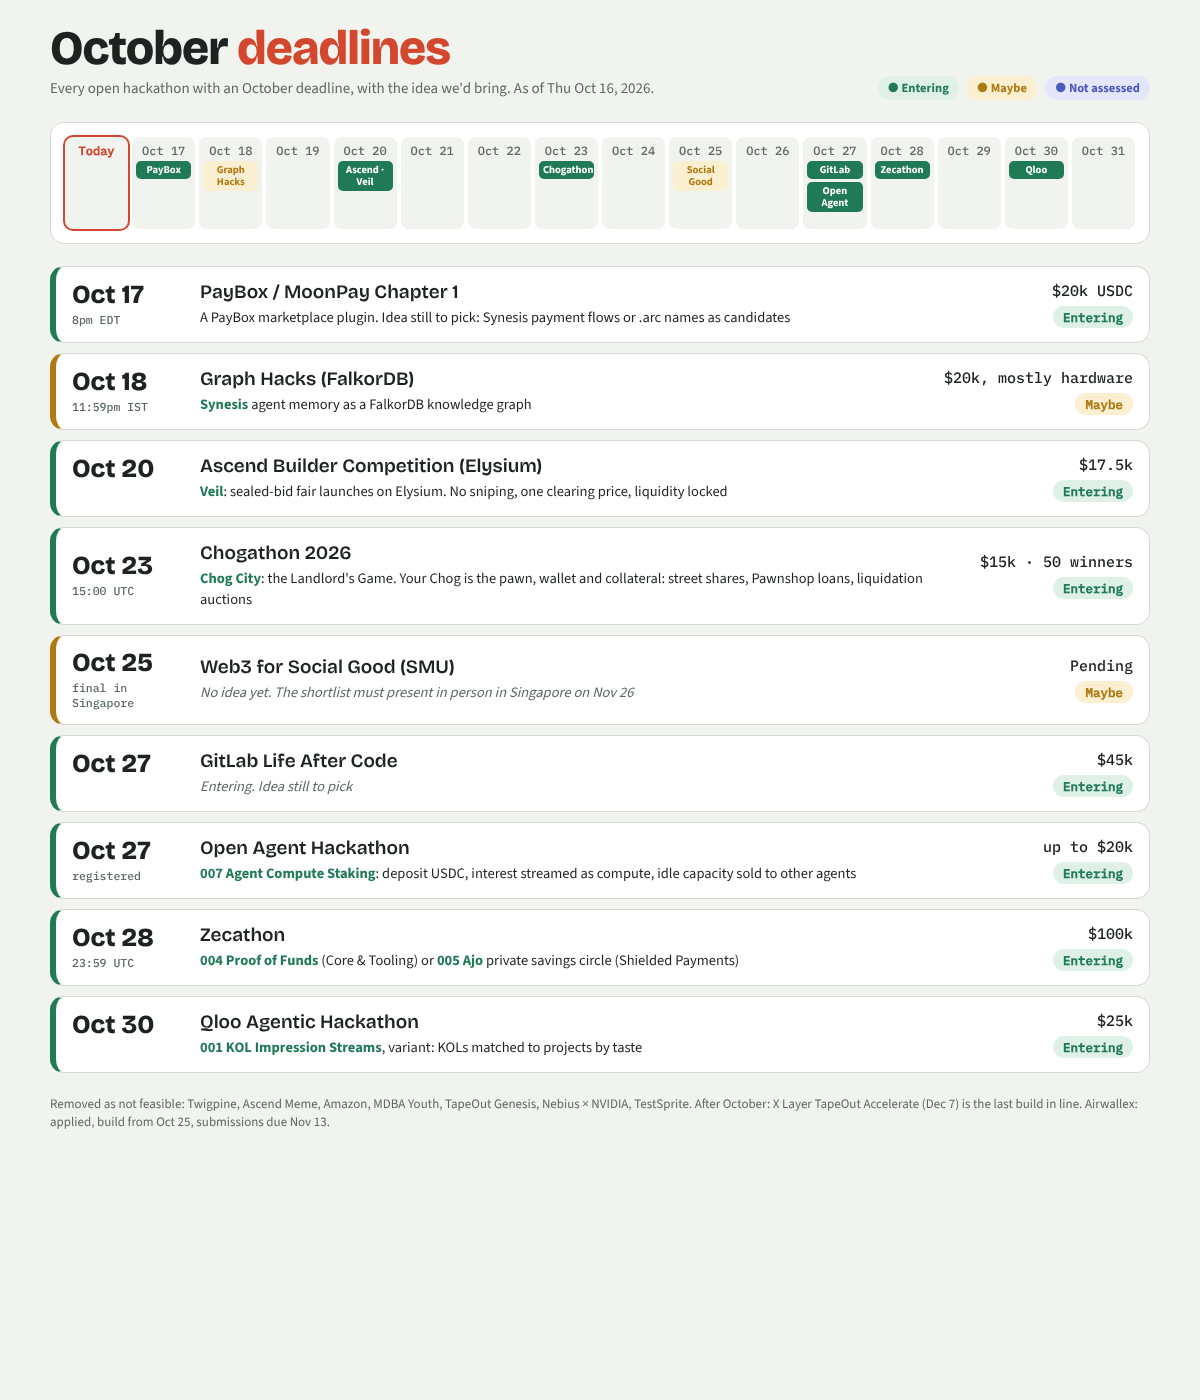
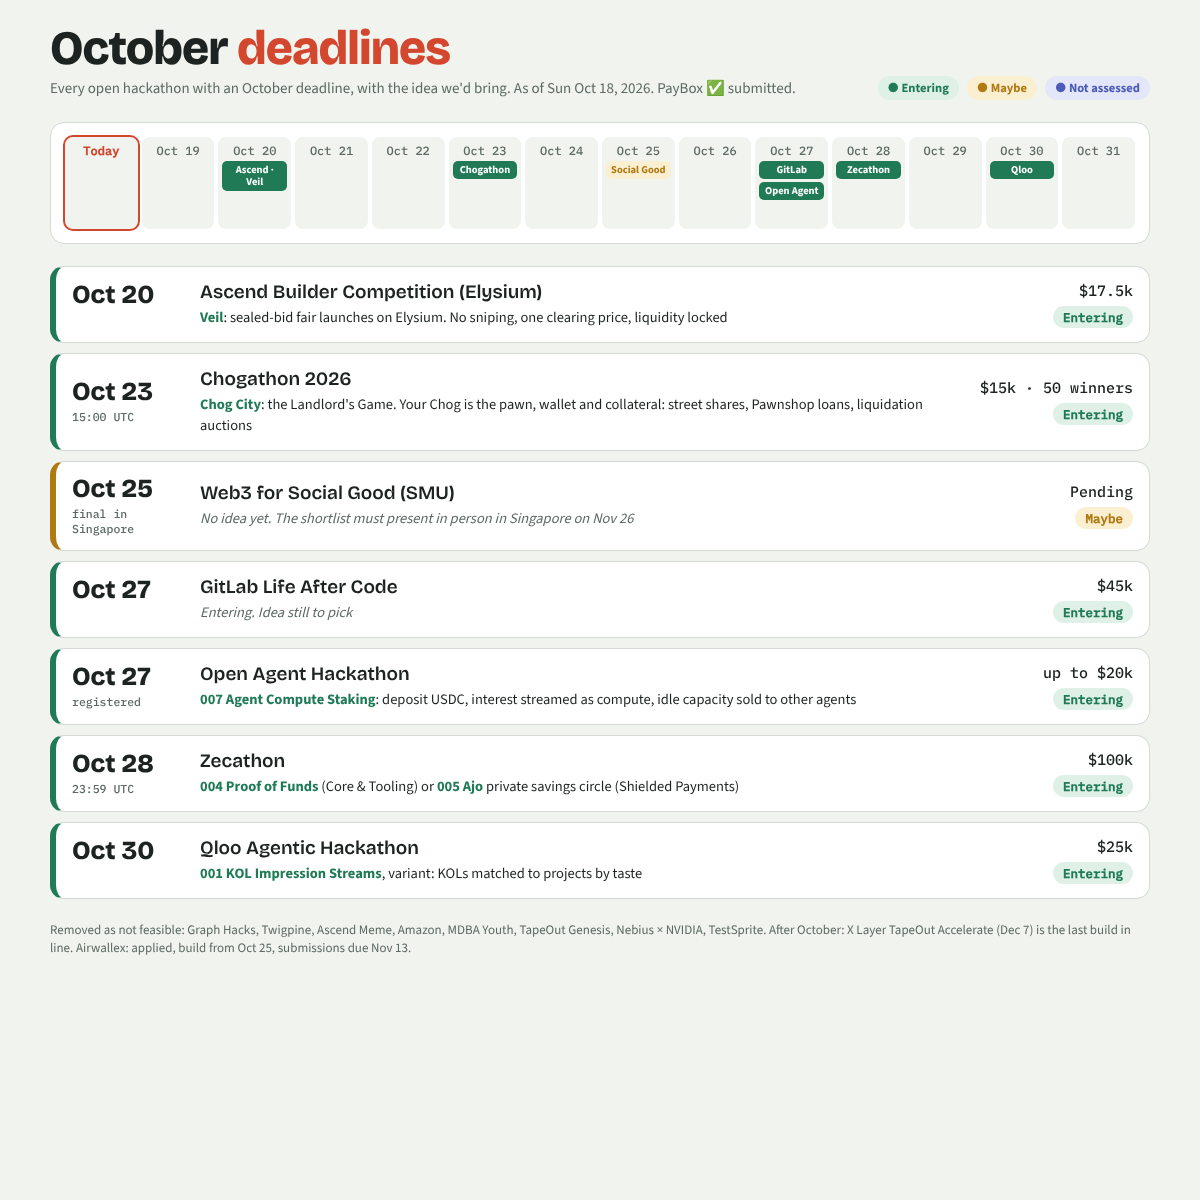
Rankings: PayBox submitted, Graph Hacks skipped; board as of Oct 18
Claude-Session: https://claude.ai/code/session_01F77xPm6nQrBC9knCdVtozW

diff --git a/hackathons/october-board.html b/hackathons/october-board.html
@@ -4,7 +4,7 @@
 <link rel="preconnect" href="https://fonts.gstatic.com" crossorigin>
 <link rel="stylesheet" href="https://fonts.googleapis.com/css2?family=Bricolage+Grotesque:opsz,wght@12..96,600;12..96,800&family=Source+Sans+3:wght@400;600;700&family=IBM+Plex+Mono:wght@500&display=swap">
 <style>
-/* Layout: a wall planner. A day strip for Oct 16–31 on top, then one card per deadline in date order. */
+/* Layout: a wall planner. A day strip for Oct 18–31 on top, then one card per deadline in date order. */
 :root {
   --bg: #f1f3ee; --card: #ffffff; --ink: #1d2320; --muted: #5d6a63; --line: #d5dbd4;
   --go: #1f7a55; --go-soft: #dff1e7; --maybe: #b07a12; --maybe-soft: #fbefd2; --new: #4d5bb8; --new-soft: #e4e7fa;
@@ -32,7 +32,7 @@ h1 span { color: var(--today); }
 .chip.go { background: var(--go-soft); color: var(--go); } .chip.maybe { background: var(--maybe-soft); color: var(--maybe); } .chip.new { background: var(--new-soft); color: var(--new); }
 
 .strip { background: var(--card); border: 1px solid var(--line); border-radius: 14px; padding: 14px; overflow-x: auto; }
-.days { display: grid; grid-template-columns: repeat(16, minmax(46px, 1fr)); gap: 4px; min-width: 760px; }
+.days { display: grid; grid-template-columns: repeat(14, minmax(46px, 1fr)); gap: 4px; min-width: 660px; }
 .day { border-radius: 8px; padding: 6px 4px; min-height: 92px; display: flex; flex-direction: column; gap: 3px; background: var(--bg); }
 .day .d { font: 500 12px var(--mono); color: var(--muted); text-align: center; }
 .day.today { outline: 2px solid var(--today); }
@@ -62,24 +62,22 @@ footer { color: var(--muted); font-size: 13px; }
   <header>
     <div>
       <h1>October <span>deadlines</span></h1>
-      <p class="sub">Every open hackathon with an October deadline, with the idea we'd bring. As of Thu Oct 16, 2026.</p>
+      <p class="sub">Every open hackathon with an October deadline, with the idea we'd bring. As of Sun Oct 18, 2026. PayBox ✅ submitted.</p>
     </div>
     <div class="legend"><span class="chip go">● Entering</span><span class="chip maybe">● Maybe</span><span class="chip new">● Not assessed</span></div>
   </header>
 
-  <div class="strip" aria-label="Day strip, Oct 16 to 31">
+  <div class="strip" aria-label="Day strip, Oct 18 to 31">
     <div class="days" id="days"></div>
   </div>
 
   <div class="cards" id="cards"></div>
 
-  <footer>Removed as not feasible: Twigpine, Ascend Meme, Amazon, MDBA Youth, TapeOut Genesis, Nebius × NVIDIA, TestSprite. After October: X Layer TapeOut Accelerate (Dec 7) is the last build in line. Airwallex: applied, build from Oct 25, submissions due Nov 13.</footer>
+  <footer>Removed as not feasible: Graph Hacks, Twigpine, Ascend Meme, Amazon, MDBA Youth, TapeOut Genesis, Nebius × NVIDIA, TestSprite. After October: X Layer TapeOut Accelerate (Dec 7) is the last build in line. Airwallex: applied, build from Oct 25, submissions due Nov 13.</footer>
 </div>
 
 <script>
 const ITEMS = [
-  { d: 17, when: "Oct 17", time: "8pm EDT", name: "PayBox / MoonPay Chapter 1", short: "PayBox", prize: "$20k USDC", s: "go", idea: "A PayBox marketplace plugin. Idea still to pick: Synesis payment flows or .arc names as candidates", tbd: true },
-  { d: 18, when: "Oct 18", time: "11:59pm IST", name: "Graph Hacks (FalkorDB)", short: "Graph Hacks", prize: "$20k, mostly hardware", s: "maybe", idea: "<b>Synesis</b> agent memory as a FalkorDB knowledge graph" },
   { d: 20, when: "Oct 20", time: "", name: "Ascend Builder Competition (Elysium)", short: "Ascend · Veil", prize: "$17.5k", s: "go", idea: "<b>Veil</b>: sealed-bid fair launches on Elysium. No sniping, one clearing price, liquidity locked" },
   { d: 23, when: "Oct 23", time: "15:00 UTC", name: "Chogathon 2026", short: "Chogathon", prize: "$15k · 50 winners", s: "go", idea: "<b>Chog City</b>: the Landlord's Game. Your Chog is the pawn, wallet and collateral: street shares, Pawnshop loans, liquidation auctions" },
   { d: 25, when: "Oct 25", time: "final in Singapore", name: "Web3 for Social Good (SMU)", short: "Social Good", prize: "Pending", s: "maybe", idea: "No idea yet. The shortlist must present in person in Singapore on Nov 26", none: true },
@@ -90,9 +88,9 @@ const ITEMS = [
 ];
 const days = document.getElementById("days");
 let html = "";
-for (let d = 16; d <= 31; d++) {
+for (let d = 18; d <= 31; d++) {
   const pins = ITEMS.filter(i => i.d === d).map(i => `<div class="pin ${i.s}">${i.short}</div>`).join("");
-  html += `<div class="day${d === 16 ? " today" : ""}"><div class="d">${d === 16 ? "Today" : "Oct " + d}</div>${pins}</div>`;
+  html += `<div class="day${d === 18 ? " today" : ""}"><div class="d">${d === 18 ? "Today" : "Oct " + d}</div>${pins}</div>`;
 }
 days.innerHTML = html;
 const label = { go: "Entering", maybe: "Maybe", new: "Not assessed" };

diff --git a/hackathons/OPEN-BY-DEADLINE.md b/hackathons/OPEN-BY-DEADLINE.md
@@ -1,6 +1,6 @@
 # Open Hackathons, Ranked by Deadline
 
-**As of 2026-10-16** (first compiled Oct 15). This merges two lists:
+**As of 2026-10-18** (first compiled Oct 15). This merges two lists:
 - **Repo:** [`TIMELINE.md`](TIMELINE.md), researched Oct 4.
 - **Roundup:** @Chinnybest0's Oct 15 roundup of 15 hackathons. Its prizes and dates were extracted by another AI assistant.
 
@@ -13,26 +13,24 @@
 
 | # | Deadline | Hackathon | Prize | Status | Source | Link |
 |---|---|---|---|---|---|---|
-| 1 | Oct 17, 8pm EDT (runs Oct 16 8am to Oct 17 8pm) | PayBox / MoonPay Hackathons Chapter 1 | $20k USDC (1st $5k) | 🎯 **entering** (36-hour sprint) | ✔ checked | https://developer.paybox.sh · https://x.com/PayBox/status/2110461635836170547 |
-| 2 | Oct 18, 11:59pm IST | Graph Hacks (FalkorDB, WeMakeDevs) | $20k, mostly hardware | 🟡 | repo + roundup | https://www.wemakedevs.org/hackathons/falkordb · https://x.com/WeMakeDevs/status/2110324168336281712 |
-| 3 | Oct 20 | Ascend Builder Competition (Elysium) | $17.5k (10k / 5k / 2.5k) | 🎯 Veil ([008](../ideas/008-veil-elysium.md)) | roundup | https://x.com/AscendLaunch/status/2106189953210454331 (submit in Discord) |
-| 4 | **Oct 23, 15:00 UTC** | **Chogathon 2026** | $15k, 50 winners | **🎯 registered** | ✔ checked | https://chogathon.chog.xyz/ |
-| 5 | Oct 25 (submissions) · shortlist presents in person in Singapore on Nov 26 | Web3 for Social Good (SMU) | Prize "Pending" | 🟡 back in | repo (verified Oct 4) | https://dorahacks.io/hackathon/web3-social-good-2026/detail |
-| 6 | Oct 27 | GitLab Life After Code | $45k | 🎯 **entering** (idea to pick) | roundup (page returned 403) | https://gitlab-transcend.devpost.com · https://x.com/gitlab/status/2107897027791114291 |
-| 7 | **Oct 27** (registration open until Oct 22) | **Open Agent Hackathon** | up to $20k | 🎯 registered (007 Agent Compute Staking) | user-confirmed Oct 16 | https://hackathon.genai.works/ |
-| 8 | **Oct 28, 23:59 UTC** | **Zecathon** | $100k | 🎯 | ✔ checked | https://thezecathon.com/ |
-| 9 | Oct 30 | Qloo Agentic Hackathon | $25k | 🎯 001 variant (taste-matched KOLs) | repo | https://qloo.devpost.com/ |
-| 10 | **~Nov 1** | **BLI Legal Tech Hackathon 2** | $20k headline | 🎯 | repo | https://dorahacks.io/hackathon/legal-hack-2026/detail |
-| 11 | **Nov 2, 11:45am ET** | YouCam API Skin AI & eCommerce VTO Hackathon (Perfect Corp, Devpost) | $6k ($2.5k / $1k / $500, plus $1k Women in Tech and $1k Rising Star) | 🆕 🟡 | ✔ checked | https://youcam-api-skin-ai-ecommerce.devpost.com/ · [press release](https://www.businesswire.com/news/home/20261013363370/en/Perfect-Corp.s-YouCam-API-Hackathon-Is-Back-Now-Focused-on-eCommerce-with-a-%246000-Prize-Pool) |
-| 12 | Nov 9, 09:00 GMT | Celo Agents on Open Rails | $5k across 4 tracks | 🆕 | ✔ checked | https://loops.house/agents-on-open-rails · https://x.com/CeloDevs/status/2108161299838550486 |
-| 13 | Nov 11 | Nimiq Mini Apps Competition, Cycle 3 | $17k USDC | 🆕 | roundup | https://x.com/miniappscomp/status/2110403290328449276 · https://x.com/nimiq/status/2110400145028170212 |
-| 14 | Nov 11 | Ryo-chan Virtual Hackathon | $15k in tokens | 🟡 | repo | https://ryobuild.com/ |
-| 15 | **Nov 12, 3:00pm EST** | **PayPal + AI: "Build What's Next"** (Devpost) | $60k+ per PayPal, $67.5k on Devpost | 🟡 back in, confirmed real | ✔ checked | https://developer.paypal.com/community/blog/PayPal_AI_Hackathon |
-| 16 | **Nov 13 (submissions)** · build from Oct 25 · applications closed Oct 23 | **Airwallex Agentic Banking** | $100k headline (prizes and credits listed add up to $156k) | ✅ **applied** (Oct 16): build Synesis from Oct 25 | ✔ checked | https://airwallex.hackerearth.com · https://x.com/airwallex/status/2107148620617420932 |
-| 17 | Nov 14 (registration closes Nov 5) | Lexsi AI Safety & Alignment | $30k+ in prizes and credits | 🆕 | ✔ checked | https://hackathon.lexsi.ai · https://x.com/Lexsi_labs/status/2109553969202921975 |
-| 18 | Nov 30 (repo) or Dec 10 (roundup) | QIE Hackathon 3.0 | $17k | 🟡 | repo + roundup, dates conflict | https://hackathon.qie.digital · https://x.com/qieblockchain/status/2098645510848410088 |
-| 19 | **Dec 7, 23:59 UTC** (provisional) | X Layer TapeOut Accelerate (OKX / X Layer × TapeOut) | 100k USDT (1 × 20k, 5 × 10k, 5 × 6k), paid in milestone stages | 🎯 **entering, last in line**: only after the October builds ship | ✔ checked | https://web3.okx.com/xlayer/build-x-series · [OKX Wallet post](https://x.com/OKXWallet_CN/status/2110923153388273991) |
-| 20 | Rolling | Circle Grants | up to $100k USDC | 🎯 | repo | https://www.circle.com/grant |
+| 1 | Oct 20 | Ascend Builder Competition (Elysium) | $17.5k (10k / 5k / 2.5k) | 🎯 Veil ([008](../ideas/008-veil-elysium.md)) | roundup | https://x.com/AscendLaunch/status/2106189953210454331 (submit in Discord) |
+| 2 | **Oct 23, 15:00 UTC** | **Chogathon 2026** | $15k, 50 winners | **🎯 registered** | ✔ checked | https://chogathon.chog.xyz/ |
+| 3 | Oct 25 (submissions) · shortlist presents in person in Singapore on Nov 26 | Web3 for Social Good (SMU) | Prize "Pending" | 🟡 back in | repo (verified Oct 4) | https://dorahacks.io/hackathon/web3-social-good-2026/detail |
+| 4 | Oct 27 | GitLab Life After Code | $45k | 🎯 **entering** (idea to pick) | roundup (page returned 403) | https://gitlab-transcend.devpost.com · https://x.com/gitlab/status/2107897027791114291 |
+| 5 | **Oct 27** (registration open until Oct 22) | **Open Agent Hackathon** | up to $20k | 🎯 registered (007 Agent Compute Staking) | user-confirmed Oct 16 | https://hackathon.genai.works/ |
+| 6 | **Oct 28, 23:59 UTC** | **Zecathon** | $100k | 🎯 | ✔ checked | https://thezecathon.com/ |
+| 7 | Oct 30 | Qloo Agentic Hackathon | $25k | 🎯 001 variant (taste-matched KOLs) | repo | https://qloo.devpost.com/ |
+| 8 | **~Nov 1** | **BLI Legal Tech Hackathon 2** | $20k headline | 🎯 | repo | https://dorahacks.io/hackathon/legal-hack-2026/detail |
+| 9 | **Nov 2, 11:45am ET** | YouCam API Skin AI & eCommerce VTO Hackathon (Perfect Corp, Devpost) | $6k ($2.5k / $1k / $500, plus $1k Women in Tech and $1k Rising Star) | 🆕 🟡 | ✔ checked | https://youcam-api-skin-ai-ecommerce.devpost.com/ · [press release](https://www.businesswire.com/news/home/20261013363370/en/Perfect-Corp.s-YouCam-API-Hackathon-Is-Back-Now-Focused-on-eCommerce-with-a-%246000-Prize-Pool) |
+| 10 | Nov 9, 09:00 GMT | Celo Agents on Open Rails | $5k across 4 tracks | 🆕 | ✔ checked | https://loops.house/agents-on-open-rails · https://x.com/CeloDevs/status/2108161299838550486 |
+| 11 | Nov 11 | Nimiq Mini Apps Competition, Cycle 3 | $17k USDC | 🆕 | roundup | https://x.com/miniappscomp/status/2110403290328449276 · https://x.com/nimiq/status/2110400145028170212 |
+| 12 | Nov 11 | Ryo-chan Virtual Hackathon | $15k in tokens | 🟡 | repo | https://ryobuild.com/ |
+| 13 | **Nov 12, 3:00pm EST** | **PayPal + AI: "Build What's Next"** (Devpost) | $60k+ per PayPal, $67.5k on Devpost | 🟡 back in, confirmed real | ✔ checked | https://developer.paypal.com/community/blog/PayPal_AI_Hackathon |
+| 14 | **Nov 13 (submissions)** · build from Oct 25 · applications closed Oct 23 | **Airwallex Agentic Banking** | $100k headline (prizes and credits listed add up to $156k) | ✅ **applied** (Oct 16): build Synesis from Oct 25 | ✔ checked | https://airwallex.hackerearth.com · https://x.com/airwallex/status/2107148620617420932 |
+| 15 | Nov 14 (registration closes Nov 5) | Lexsi AI Safety & Alignment | $30k+ in prizes and credits | 🆕 | ✔ checked | https://hackathon.lexsi.ai · https://x.com/Lexsi_labs/status/2109553969202921975 |
+| 16 | Nov 30 (repo) or Dec 10 (roundup) | QIE Hackathon 3.0 | $17k | 🟡 | repo + roundup, dates conflict | https://hackathon.qie.digital · https://x.com/qieblockchain/status/2098645510848410088 |
+| 17 | **Dec 7, 23:59 UTC** (provisional) | X Layer TapeOut Accelerate (OKX / X Layer × TapeOut) | 100k USDT (1 × 20k, 5 × 10k, 5 × 6k), paid in milestone stages | 🎯 **entering, last in line**: only after the October builds ship | ✔ checked | https://web3.okx.com/xlayer/build-x-series · [OKX Wallet post](https://x.com/OKXWallet_CN/status/2110923153388273991) |
+| 18 | Rolling | Circle Grants | up to $100k USDC | 🎯 | repo | https://www.circle.com/grant |
 
 ## In the roundup, deadline not given
 | Hackathon | Prize | Link |
@@ -60,7 +58,11 @@
   - **Possible fits:** the Cuerate RE Agent (already on OKX / X Layer), or Chog City / Archer-style games using TapeOut contracts.
   - Judged on user value and commercial potential, innovation, ecosystem integration, readiness, and a ≤3 minute demo.
 
+## Done
+- PayBox / MoonPay Chapter 1 (Oct 17): ✅ submitted
+
 ## Removed as not feasible (Oct 16)
+- Graph Hacks (FalkorDB) (Oct 18): ⛔ skipped: clashed with PayBox
 - Twigpine Project Treetop, Games round (Oct 16): ⛔ skipped: one small prize, no time
 - Ascend Meme Competition (Oct 18): ⛔ skipped
 - Amazon Developer Hackathon (Oct 23): ⛔

diff --git a/hackathons/TIMELINE.md b/hackathons/TIMELINE.md
@@ -21,8 +21,8 @@ Everything researched on 2026-10-04 (updated 2026-10-15), in deadline order. All
 | **Oct 27** (registration until Oct 22) | **Open Agent Hackathon** | up to $20k | 007 Agent Compute Staking | 🎯 registered | |
 | **Oct 14** | **Arc Microgrants Mainnet Challenge** | 20 × $500 USDC | Synesis / Cuerate / `.arc` redeployed on Arc mainnet | ✅ submitted | Rolling review: submit early |
 | Oct 14 (kickoff) | Portaldot Hacker House | $5.2k | — | ⛔ | Not open yet + low prize |
-| **Oct 17, 8pm EDT** | **PayBox / MoonPay Hackathons Chapter 1** | $20k USDC (1st $5k) | TBD (36-hour sprint) | 🎯 | Build a PayBox marketplace plugin. https://developer.paybox.sh |
-| Oct 15–18 | Graph Hacks (FalkorDB) | $20k, mostly hardware | Synesis agent memory | 🟡 | |
+| **Oct 17, 8pm EDT** | **PayBox / MoonPay Hackathons Chapter 1** | $20k USDC (1st $5k) | Marketplace plugin | ✅ submitted | Build a PayBox marketplace plugin. https://developer.paybox.sh |
+| Oct 15–18 | Graph Hacks (FalkorDB) | $20k, mostly hardware | Synesis agent memory | ⛔ | Skipped: clashed with PayBox |
 | Oct 16 – Nov 15 | Mezo Buildathon | $7k in MEZO | — | ⛔ | Low prize, paid in token |
 | **Oct 23, 15:00 UTC** (registration closed Oct 11, 13:00 UTC) | **Chogathon 2026** (Chog NFTs) | $15k, 50 winners (may drop to $10k) | TBD: the Chog NFT has to be essential to the app | 🎯 registered | Judged on Novelty 30%, Fun 20%, Retention 20%, Clarity 15%, Execution 15%. Demo video ≤ 3 min. $CHOG use earns bonus points. The site also shows Oct 9 as a close date, so confirm with the organisers |
 | Oct 23 | Amazon Developer Hackathon | $138k | — | ⛔ | Fire TV / Alexa+ / Ring |
